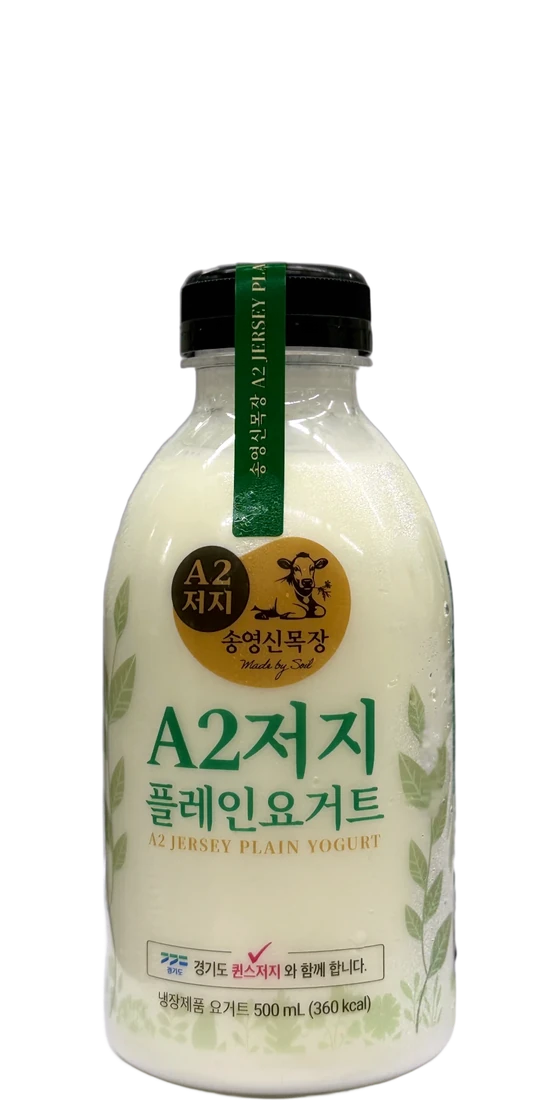
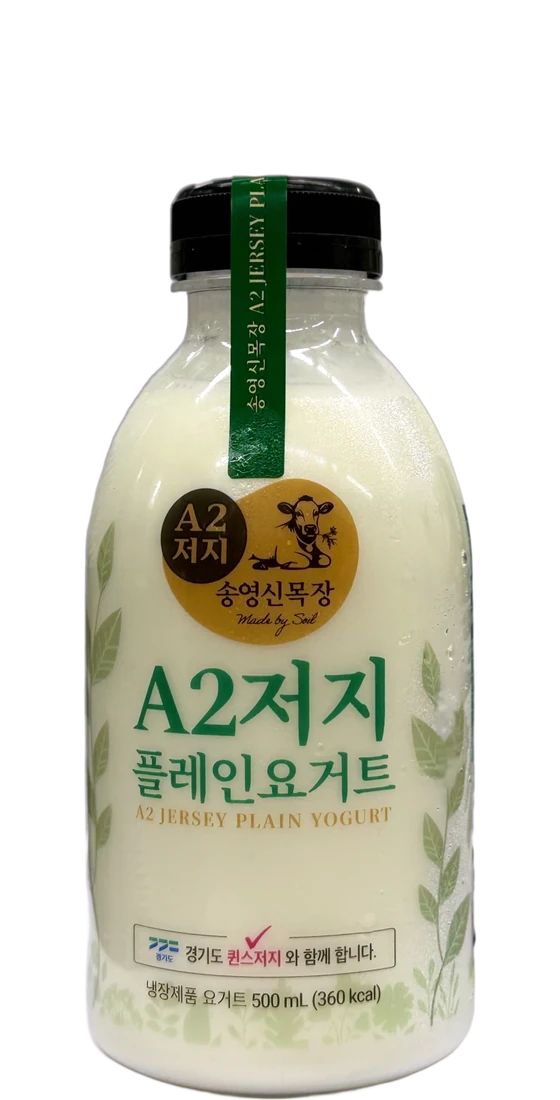
fix(진열 카드): 병 비율을 조금 눌러 작은 병 라벨이 읽히게 (1 : 0.85 : 0.68)
Claude-Session: https://claude.ai/code/session_01F2bgBTKJ7TqpFALYp1gxwG

Changed region(s): [[0.1518, 0.1545, 0.85, 0.9891], [0.3339, 0.9891, 0.3946, 1.0]]

diff --git a/components/ProductShowcase.tsx b/components/ProductShowcase.tsx
@@ -42,7 +42,8 @@ const COUNT_KR = ["", "한", "두", "세", "네", "다섯", "여섯", "일곱", 
 const maxRate = discountForPeriod(SUB_PERIODS[SUB_PERIODS.length - 1]);
 
 // 색 바탕 카드 — 제품마다 라벨 색에서 뽑은 바탕과, 배경을 지운 병 사진(public/products/cut).
-//   ※ 누끼 넷은 같은 캔버스(560×1100)에 실제 병 높이 비율(750mL 1 : 500mL 0.77 : 180mL 0.53)로 앉혀 둔다.
+//   ※ 누끼 넷은 같은 캔버스(560×1100)에 키 순서가 보이는 비율(750mL 1 : 500mL 0.85 : 180mL 0.68)로 앉혀 둔다.
+//     실제 비율(1 : 0.77 : 0.53)을 그대로 쓰면 180mL 가 너무 작아 라벨이 안 읽혀 조금 눌렀다.
 //     카드마다 object-contain 으로 꽉 채우면 180mL 가 750mL 보다 커 보인다(2026-11-16 회장님 지적).
 // 병 사진은 원본(assets/product-photos)을 Higgsfield remove_background 로 누끼 딴 뒤 병 둘레만 남겨 잘랐다.
 // 여기에 없는 제품(애프터밀크 등)은 예전처럼 크림 바탕에 원래 사진을 쓴다.
